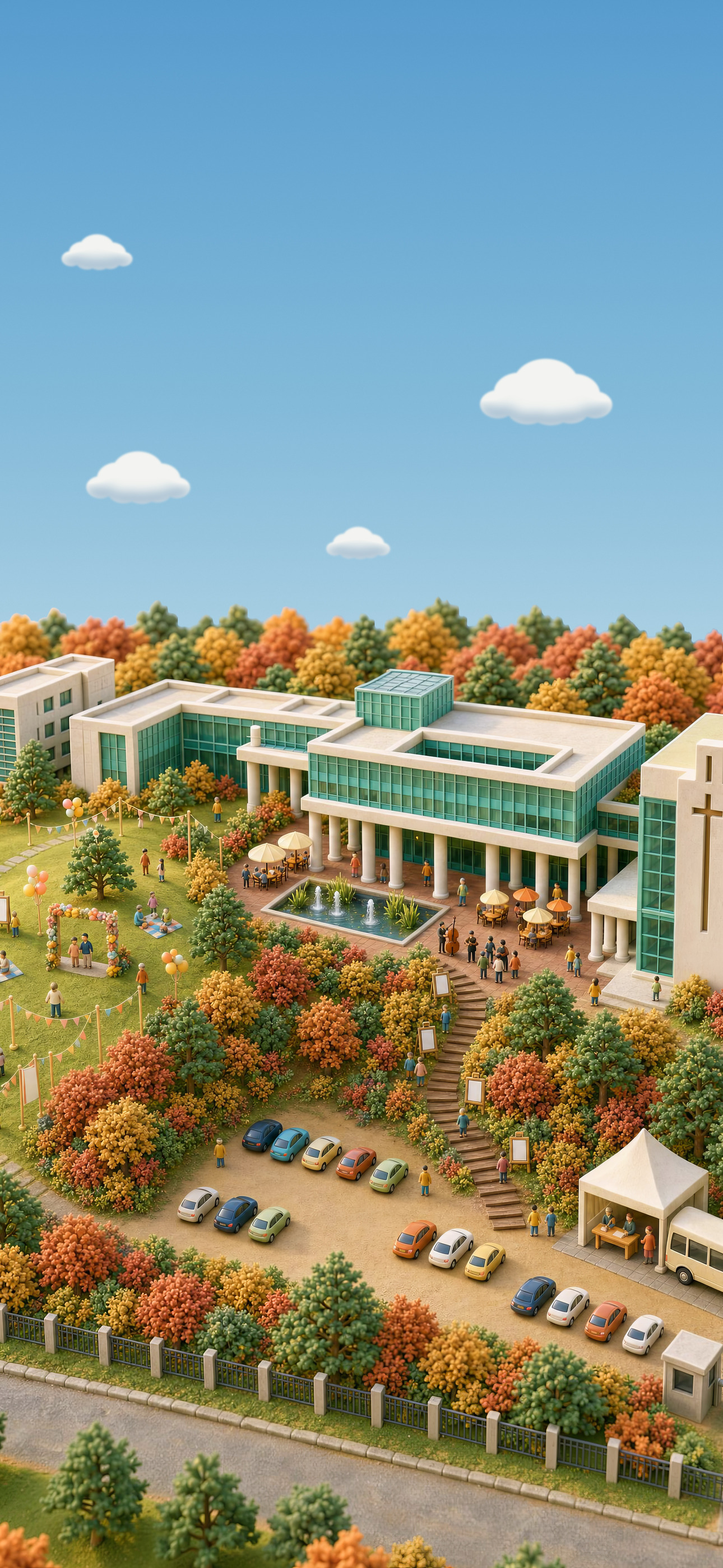
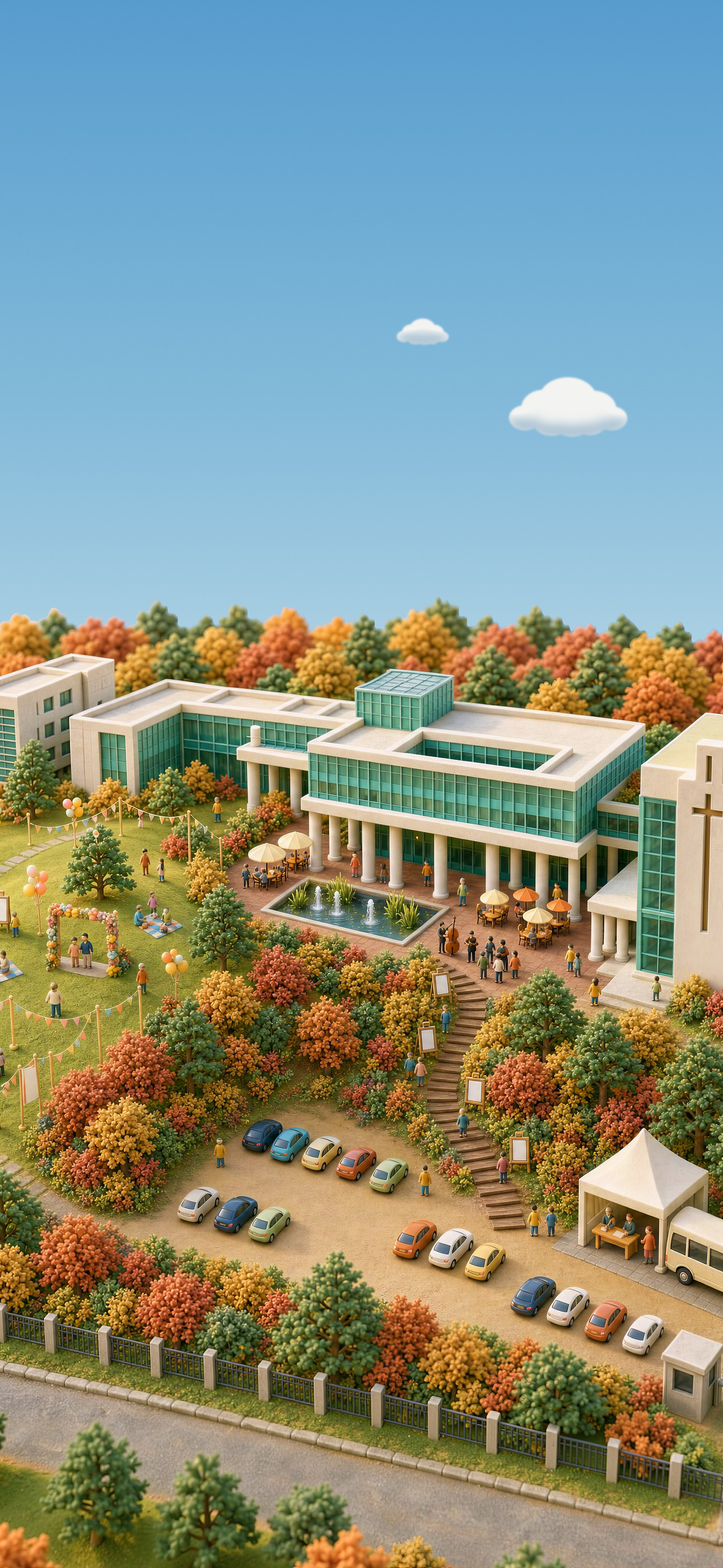
Mobile hero: lift eyebrow/title/subtitle onto clear sky (height-aware), clouds moved off the copy column, hashed hero file, compact stack on very short screens

diff --git a/apps/web/src/app/globals.css b/apps/web/src/app/globals.css
@@ -221,6 +221,21 @@ img { max-width: 100%; }
 /* portrait hero image (phones held upright): sky on top, campus below — keep the campus behind the copy */
 @media (max-width: 820px) and (orientation: portrait) {
   .overtureMedia img { object-position: 50% 62%; transform: none; }
+  /* Lift the eyebrow + title + subtitle so the small eyebrow sits on clear sky instead of the
+     tree line: the block is bottom-anchored, so a larger gap above the promise pushes them up.
+     The lift grows with the screen height (tall phones show more sky) and is zero on short ones,
+     where the block would otherwise run into the top bar. */
+  .overtureCopy .promise { margin-top: clamp(34px, calc(28svh - 146px), 96px); }
+}
+/* very short portrait screens (iPhone SE class with browser bars): tighten the stack so the eyebrow
+   clears the top bar instead of sliding under it */
+@media (max-width: 820px) and (orientation: portrait) and (max-height: 640px) {
+  .overtureCopy { bottom: 76px; }
+  .overture h1 { font-size: clamp(44px, 12.4vw, 96px); }
+  .overtureCopy .eyebrow { margin-bottom: 10px; }
+  .overtureCopy .subtitle { margin-top: 14px; }
+  .overtureCopy .promise { margin-top: 18px; line-height: 1.5; }
+  .overtureCopy .eventLine { margin-top: 14px; gap: 4px 18px; }
 }
 @media (prefers-reduced-motion: reduce) {
   html { scroll-behavior: auto; }

diff --git a/apps/web/src/config/hero.ts b/apps/web/src/config/hero.ts
@@ -1,4 +1,4 @@
 // Generated by media/scripts/posters.py — versioned so browser caches never show a stale hero.
 export const heroImage = "/media/scenes/overture-anchor-v5b.webp";
 // Portrait hero for phones (9:19.5), from media/anchor/<stem>-phone.jpg when it exists.
-export const heroImageMobile: string | null = "/media/scenes/overture-anchor-v5b-m.webp";
+export const heroImageMobile: string | null = "/media/scenes/overture-anchor-v5b-m-587ce835.webp";

diff --git a/media/scripts/hero-phone.py b/media/scripts/hero-phone.py
@@ -1,0 +1,65 @@
+"""Phone hero master (media/anchor/anchor-v5b-phone.jpg) from the 9:19.5 wallpaper.
+
+The wallpaper's clouds sit where the site's left-aligned hero copy and the top bar go, and light
+text on a white cloud disappears. This repaints the sky above the tree line with the same gradient
+and puts the clouds in the right-hand column only. No credits.
+Writes the master, a content-hashed WebP for the site (so a re-render never serves a cached old
+one) and the heroImageMobile line in apps/web/src/config/hero.ts — same naming as posters.py.
+Usage: python3 media/scripts/hero-phone.py
+"""
+import hashlib, re
+from pathlib import Path
+from PIL import Image, ImageDraw, ImageFilter
+import numpy as np
+
+ROOT = Path(__file__).resolve().parents[2]
+SRC = ROOT / "media/work/wallpaper/FALLingInLove_wallpaper_phone_2464x5341.jpg"
+rng = np.random.default_rng(11)
+u = np.asarray(Image.open(SRC).convert("RGB")).astype(np.float32); H, W, _ = u.shape
+r, g, b = u[..., 0], u[..., 1], u[..., 2]; mx, mn = u.max(axis=2), u.min(axis=2)
+skyish = ((b > r + 20) & (b > g) & (b > 140)) | ((mn > 196) & (mx - mn < 44))
+LIMIT = 2400                                   # the tree line is well above this row
+L = np.zeros(W, int)
+for x in range(W):
+    col = skyish[:LIMIT, x]; y, gap = 0, 0
+    for yy in range(LIMIT):
+        if col[yy]: y, gap = yy, 0
+        else:
+            gap += 1
+            if gap > 12: break
+    L[x] = y
+pad = np.pad(L, 24, mode="edge"); med = np.array([np.median(pad[i:i + 49]) for i in range(W)])
+L = np.where(L < med - 36, med, L).astype(int)
+sky_h = int(L.max()) + 4
+top_c, mid_c, bot_c = np.array([88, 156, 206], np.float32), np.array([126, 183, 216], np.float32), np.array([171, 208, 227], np.float32)
+t = (np.arange(sky_h) / (sky_h - 1))[:, None, None]
+lower = np.clip((t - 0.55) / 0.45, 0, 1) ** 1.15
+grad = np.where(t < 0.55, top_c + (mid_c - top_c) * (t / 0.55), mid_c + (bot_c - mid_c) * lower)
+sky = np.broadcast_to(grad, (sky_h, W, 3)).copy() + rng.normal(0, 1.0, (sky_h, W, 1))
+cloud = Image.new("L", (W * 2, sky_h * 2), 0); dc = ImageDraw.Draw(cloud)
+def puff(cx, cy, s):
+    for dx, dy, rad in [(-1.45, .30, .55), (-.80, -.05, .78), (0, -.30, 1.0), (.85, 0, .80), (1.5, .32, .52), (.15, .38, .72), (-.55, .40, .66), (.75, .42, .6)]:
+        x, y, q = (cx + dx * s) * 2, (cy + dy * s) * 2, rad * s * 2
+        dc.ellipse([x - q, y - q * .78, x + q, y + q * .78], fill=255)
+tree = int(L.min())
+# right-hand column only (x > 56 %): clear of the eyebrow/title on the left and the brand at top-left
+for cx, cy, s in [(1935, tree - 640, 100), (1440, tree - 900, 44)]: puff(cx, cy, s)
+cloud = cloud.resize((W, sky_h), Image.LANCZOS).filter(ImageFilter.GaussianBlur(3.0))
+ca = np.asarray(cloud).astype(np.float32)[..., None] / 255
+under = np.asarray(cloud.filter(ImageFilter.GaussianBlur(20))).astype(np.float32) / 255
+shade = np.clip(under - np.roll(under, -28, axis=0), 0, 1)[..., None] * 2.2
+sky = sky * (1 - ca) + (np.array([243, 244, 241], np.float32) - shade * np.array([58, 40, 24], np.float32)) * ca
+ys = np.arange(sky_h)[:, None]
+w = np.clip((L[None, :] - ys) / 6.0, 0, 1)[..., None]
+u[:sky_h] = sky * w + u[:sky_h] * (1 - w)
+out = Image.fromarray(np.clip(u, 0, 255).astype(np.uint8)).resize((1290, 2796), Image.LANCZOS)
+dst = ROOT / "media/anchor/anchor-v5b-phone.jpg"
+out.save(dst, "JPEG", quality=92, subsampling=0, optimize=True)
+scenes = ROOT / "apps/web/public/media/scenes"
+for old in scenes.glob("overture-anchor-v5b-m*.webp"): old.unlink()
+tag = hashlib.sha1(dst.read_bytes()).hexdigest()[:8]
+web = scenes / f"overture-anchor-v5b-m-{tag}.webp"
+out.save(web, "WEBP", quality=84, method=6)
+hero_ts = ROOT / "apps/web/src/config/hero.ts"
+hero_ts.write_text(re.sub(r'export const heroImageMobile: string \| null = .*;', f'export const heroImageMobile: string | null = "/media/scenes/{web.name}";', hero_ts.read_text()))
+print(dst.name, out.size, "→", web.name, "| tree line (2x) min", tree, "max", int(L.max()))

diff --git a/media/scripts/posters.py b/media/scripts/posters.py
@@ -102,7 +102,8 @@ cover(ov, 1600, 840).save(ROOT / "apps/web/public/media/og.jpg", quality=86)
 hero_ts = ROOT / "apps/web/src/config/hero.ts"
 # Phone hero (9:19.5): a hand-finished portrait master next to the anchor, if there is one.
 phone = ROOT / "media/anchor" / f"{stem}-phone.jpg"
-hero_m = OUT / f"overture-{stem}-m.webp"
+import hashlib
+hero_m = OUT / (f"overture-{stem}-m-{hashlib.sha1(phone.read_bytes()).hexdigest()[:8]}.webp" if phone.exists() else f"overture-{stem}-m.webp")
 if phone.exists():
     cover(Image.open(phone).convert("RGB"), 1290, 2796).save(hero_m, quality=84, method=6)
 hero_ts.write_text(
